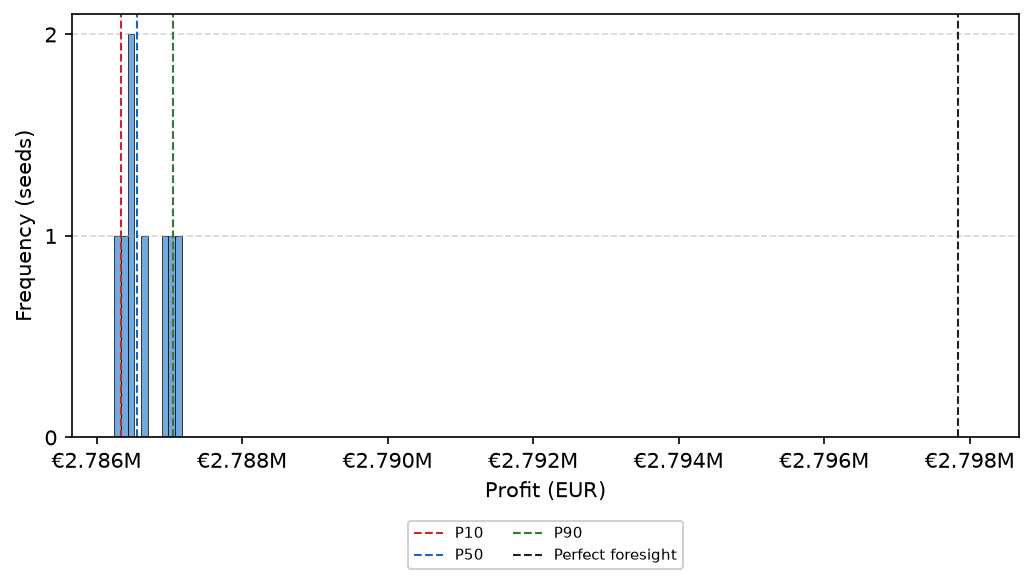
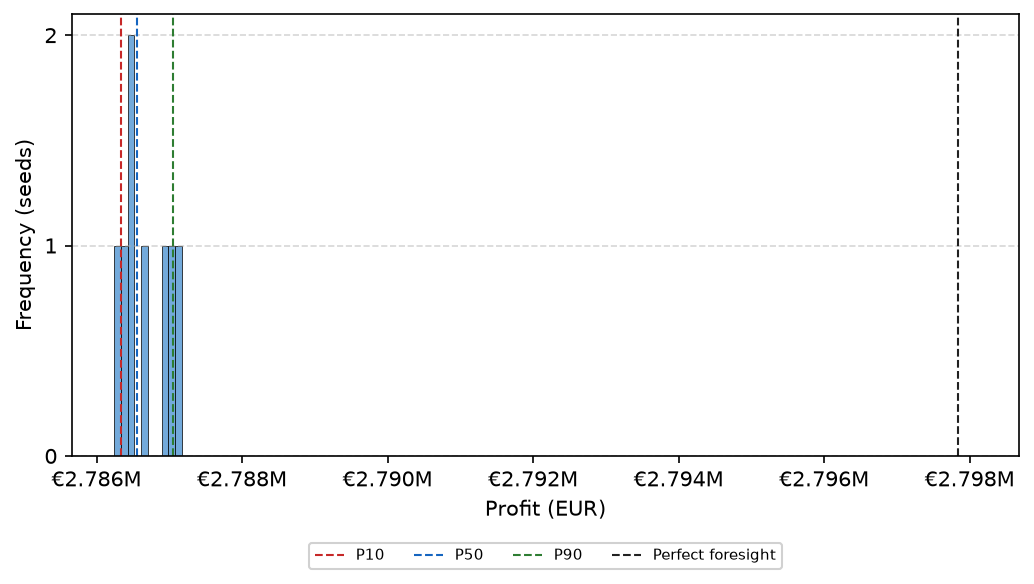
Lock single-asset Sankey regimes, flat small legends, one font policy
Energy-flow diagram:
- The curtailment sink takes the canonical "Curtailed PV" label of the
  energy plots (it previously read plain "Curtailed" — the one place
  the concept was spelled differently).
- Single-asset regimes verified and locked by tests: a PV-only project
  draws no battery column or losses sink, a BESS-only project no PV
  column or curtailment sink, and curtailment renders whenever the
  dispatch carries it.

Legends:
- Up to four entries sit on ONE row (matching the LCOE / LCOS strips)
  in both legend helpers, so small legends read flat everywhere
  (cumulative cashflow, monthly cashflow, foresight distribution).

Fonts:
- One size per text role across every figure, locked by a static test:
  ticks, axis labels and titles come from the IEEE preset, legends at
  7 pt, in-plot annotations and node labels at 7 pt, empty-input
  placeholders at 10 pt.  The LCOE / LCOS absent-asset message moves
  from 9 pt to the shared 10 pt placeholder size (the only deviation
  found).

Gallery: the three small-legend figures re-rendered; every other asset
reproduced byte-identically at mip-gap 0.002.

diff --git a/tests/test_emissions_cfe.py b/tests/test_emissions_cfe.py
@@ -200,3 +200,62 @@ def test_emissions_full_run_sheet_and_finance_unchanged(tmp_path):
         assert not (
             r.out_dir / "04_financial_plots" / "energy_sankey.pdf"
         ).exists()
+
+
+def _sankey_frame(**kw) -> pd.DataFrame:
+    cols = [
+        "pv_to_load_kwh", "pv_to_bess_kwh", "pv_to_grid_kwh",
+        "pv_curtail_kwh", "grid_to_load_kwh", "bess_charge_grid_kwh",
+        "bess_dis_load_kwh", "bess_dis_grid_kwh",
+    ]
+    return pd.DataFrame({c: [float(kw.get(c, 0.0)) * 1e6] for c in cols})
+
+
[email redacted](("name", "frame_kwargs", "expected", "absent"), [
+    ("pv_only_merchant",
+     dict(pv_to_grid_kwh=21.4, pv_curtail_kwh=1.1),
+     {"PV generation", "Grid export", "Curtailed PV"},
+     {"BESS", "Losses", "Load", "Grid import"}),
+    ("bess_only",
+     dict(bess_charge_grid_kwh=19.8, bess_dis_grid_kwh=18.0),
+     {"Grid import", "BESS", "Grid export", "Losses"},
+     {"PV generation", "Curtailed PV", "Load"}),
+    ("hybrid_with_curtailment",
+     dict(pv_to_load_kwh=12.9, pv_to_bess_kwh=9.2, pv_to_grid_kwh=0.4,
+          pv_curtail_kwh=1.6, grid_to_load_kwh=13.0,
+          bess_charge_grid_kwh=10.6, bess_dis_load_kwh=6.3,
+          bess_dis_grid_kwh=12.1),
+     {"PV generation", "Grid import", "BESS", "Load", "Grid export",
+      "Curtailed PV", "Losses"},
+     set()),
+])
+def test_energy_sankey_single_asset_regimes(
+    tmp_path, monkeypatch, name, frame_kwargs, expected, absent,
+):
+    """The energy-flow diagram collapses to the columns a regime uses:
+    PV-only draws no battery column, BESS-only no PV column, and the
+    curtailment sink carries the canonical "Curtailed PV" label."""
+    import matplotlib
+    matplotlib.use("Agg")
+    import matplotlib.pyplot as plt
+
+    from pvbess_opt.plotting import emissions as em_mod
+    from pvbess_opt.plotting.emissions import plot_energy_sankey
+
+    captured: dict = {}
+    real_save = em_mod.save_figure
+
+    def _spy(out_path):
+        captured["texts"] = [
+            t.get_text().split("\n")[0]
+            for t in plt.gcf().axes[0].texts
+        ]
+        return real_save(out_path)
+
+    monkeypatch.setattr(em_mod, "save_figure", _spy)
+    out = tmp_path / f"{name}.pdf"
+    plot_energy_sankey(_sankey_frame(**frame_kwargs), out)
+    assert out.exists() and out.stat().st_size > 0
+    labels = set(captured["texts"])
+    assert expected <= labels, (expected - labels, labels)
+    assert not (absent & labels), (absent & labels)

diff --git a/tests/test_color_registry.py b/tests/test_color_registry.py
@@ -65,3 +65,20 @@ def test_no_inline_colors_in_plotting_modules():
         "Inline hex colours found in plotting modules:\n"
         + "\n".join(offenders)
     )
+
+
+def test_font_size_policy_in_plotting_modules():
+    """One size per text role, everywhere: ticks/labels/titles come from
+    the IEEE rcParams preset (8/9/9 pt), legends render at 7 pt, in-plot
+    annotations and node labels at 7 pt, empty-input placeholders at
+    10 pt.  Any other explicit fontsize literal is a drift."""
+    fontsize_re = re.compile(r"fontsize=(\d+)")
+    plotting_dir = Path(__file__).resolve().parent.parent / "pvbess_opt" / "plotting"
+    offenders: list[str] = []
+    for py_file in plotting_dir.rglob("*.py"):
+        for match in fontsize_re.finditer(py_file.read_text()):
+            if int(match.group(1)) not in (7, 10):
+                offenders.append(f"{py_file.name}: fontsize={match.group(1)}")
+    assert not offenders, (
+        "Non-policy font sizes in plotting modules:\n" + "\n".join(offenders)
+    )

diff --git a/pvbess_opt/plotting/style.py b/pvbess_opt/plotting/style.py
@@ -263,7 +263,11 @@ def apply_legend(
     num_entries = len(labels)
     if num_entries == 0:
         return
-    ncol = max(1, int(np.ceil(num_entries / max_rows)))
+    # Same flat-row rule as legend_below: up to four entries on one row.
+    if num_entries <= 4:
+        ncol = num_entries
+    else:
+        ncol = max(1, int(np.ceil(num_entries / max_rows)))
     ax.legend(
         handles,
         labels,
@@ -451,7 +455,13 @@ def legend_below(
     # NOTE: _attach reads ``y_offset`` from the enclosing scope, so the
     # measured-drop loop below can lower it and simply re-attach.
 
-    ncol = max(1, int(np.ceil(len(labels) / max_rows)))
+    # Small legends read best flat: up to four entries sit on ONE row
+    # (matching the LCOE / LCOS strips); larger sets wrap into at most
+    # ``max_rows`` rows and the width fit below narrows them if needed.
+    if len(labels) <= 4:
+        ncol = len(labels)
+    else:
+        ncol = max(1, int(np.ceil(len(labels) / max_rows)))
     fig = ax.figure
     legend = _attach(ncol)
 

diff --git a/pvbess_opt/plotting/emissions.py b/pvbess_opt/plotting/emissions.py
@@ -44,13 +44,13 @@ _SANKEY_NODE_COLUMNS: dict[str, int] = {
     "BESS": 1,
     "Load": 2,
     "Grid export": 2,
-    "Curtailed": 2,
+    "Curtailed PV": 2,
     "Losses": 2,
 }
 _SANKEY_COLUMN_ORDER: tuple[tuple[str, ...], ...] = (
     ("PV generation", "Grid import"),
     ("BESS",),
-    ("Load", "Grid export", "Curtailed", "Losses"),
+    ("Load", "Grid export", "Curtailed PV", "Losses"),
 )
 _SANKEY_NODE_COLOURS: dict[str, str] = {
     "PV generation": COLORS["PV generation"],
@@ -58,7 +58,7 @@ _SANKEY_NODE_COLOURS: dict[str, str] = {
     "BESS": COLORS["BESS to load"],
     "Load": COLORS["Load demand"],
     "Grid export": COLORS["BESS to grid"],
-    "Curtailed": COLORS["Curtailed PV"],
+    "Curtailed PV": COLORS["Curtailed PV"],
     "Losses": COLORS["BESS losses"],
 }
 _SANKEY_LOSSES_COLOUR = COLORS["BESS losses"]
@@ -87,7 +87,7 @@ def plot_energy_sankey(res: pd.DataFrame, out_path: Path) -> Path:
          COLORS["PV to BESS"]),
         ("PV generation", "Grid export", _sum_mwh(res, "pv_to_grid_kwh"),
          COLORS["PV to grid"]),
-        ("PV generation", "Curtailed", _sum_mwh(res, "pv_curtail_kwh"),
+        ("PV generation", "Curtailed PV", _sum_mwh(res, "pv_curtail_kwh"),
          COLORS["Curtailed PV"]),
         ("Grid import", "Load", _sum_mwh(res, "grid_to_load_kwh"),
          COLORS["Grid to load"]),

diff --git a/pvbess_opt/plotting/lifecycle.py b/pvbess_opt/plotting/lifecycle.py
@@ -666,7 +666,7 @@ def _draw_benchmark_row(
     if not asset_present or np.isnan(base):
         ax.text(
             0.5, 0.5, absent_message, ha="center", va="center",
-            fontsize=9, transform=ax.transAxes,
+            fontsize=10, transform=ax.transAxes,
         )
         ax.set_yticks([])
         ax.set_ylim(-0.5, 0.5)

diff --git a/docs/CHANGELOG.md b/docs/CHANGELOG.md
@@ -96,6 +96,18 @@ Production release.
   measured — the column count narrows until the legend fits the
   figure width and the legend drops until it clears the x tick labels
   and the axis label.
+- The energy-flow diagram's curtailment sink takes the canonical
+  "Curtailed PV" label of the energy plots, and its single-asset
+  regimes are locked by tests: a PV-only project draws no battery
+  column or losses sink, a BESS-only project no PV column or
+  curtailment sink.
+- Legends with up to four entries sit on one row (matching the
+  LCOE / LCOS strips) in both legend helpers, so small legends read
+  flat everywhere.
+- One font size per text role across every figure, locked by a static
+  test: ticks, axis labels and titles from the IEEE preset, legends at
+  7 pt, in-plot annotations and node labels at 7 pt, empty-input
+  placeholders at 10 pt.
 - The measured legend system pins the y-view across its tick prunes: a
   locator tick emitted below the visible minimum could re-expand the
   autoscaled view AFTER the legend was measured clear, shifting the